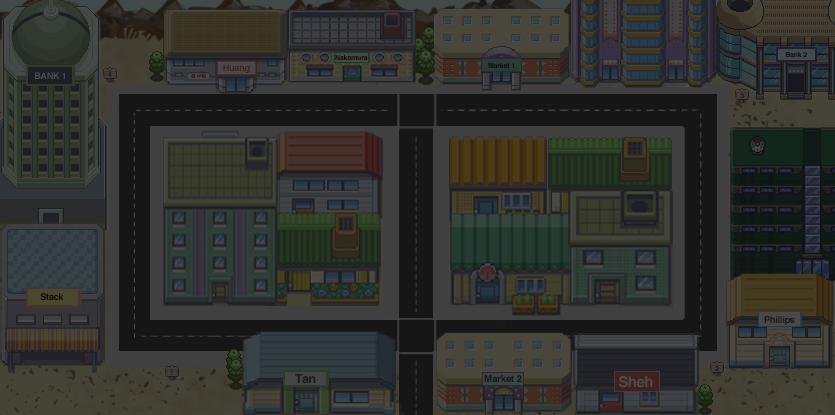
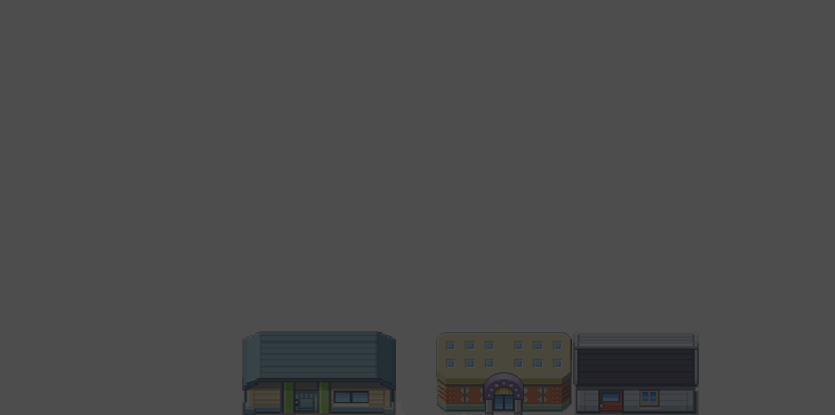
Updated night time gui and readme

diff --git a/src/gui/MacroAnimationPanel.java b/src/gui/MacroAnimationPanel.java
@@ -225,10 +225,10 @@ public class MacroAnimationPanel extends JPanel implements ActionListener, Mouse
 	        }
         }
         
-//        if(Clock.sharedInstance().isDay()) 
+        if(Clock.sharedInstance().isDay()) 
         	g2.drawImage(cityImage, 0, 0, null);
-//        else 
-//        	g2.drawImage(cityImageNight, 0, 0, null);
+        else 
+        	g2.drawImage(cityImageNight, 0, 0, null);
         
         synchronized(guis) {
 	        for(Gui gui : guis) {
@@ -249,10 +249,10 @@ public class MacroAnimationPanel extends JPanel implements ActionListener, Mouse
         //moveComponents();
         //drawComponents(g);
         
-//        if(Clock.sharedInstance().isDay()) 
+        if(Clock.sharedInstance().isDay()) 
         	g2.drawImage(cityImageTop, 0, 0, null);
-//        else 
-//        	g2.drawImage(cityImageNightTop, 0, 0, null);
+        else 
+        	g2.drawImage(cityImageNightTop, 0, 0, null);
     }
     
     public ArrayList<Building> getBuildings() {

diff --git a/README.md b/README.md
@@ -34,6 +34,12 @@ Missing functionality in V1
  * No walking as sole form of transportation.
  * No bank robberies.
  * No weekends.
+ 
+ Missing functionality in V2
+ * Buying/Driving Car Scenario
+ *
+ *
+ *
 
 Ryan Stack's Contribution:
  * Implemented restaurant with added shared data, market interactions, and payment from cashier
@@ -58,6 +64,10 @@ Reid Nakamura's Contribution:
  * Implement Market Role Unit Test
  * Helped to debug Transportation GUI
  * Resolved issue with Ryan Sheh to set up CardLayout of building animation panels
+ * Implemented personal restaurant w/ normal/shared waiter/cook interactions
+ * Updated Market Role Agent to Handle Deliveries
+ * Helped Ryan w/ Market/Restaurant interaction
+ * Implemented time (days/hours/weekends)
 
 Ryan Sheh's Contribution
  * Main Window GUI (w/ help from Ryan Stack)
@@ -68,6 +78,12 @@ Ryan Sheh's Contribution
  * Implemented Directory Class for References (w/ help from Alex)
  * Unit Testing Bank Roles (w/ Richard)
  * Helped Implement Bus Agent & GUI (w/ Ben Tan)
+ * Implemented personal restaurant w/ normal/shared waiter/cook interactions
+ * Traffic Agent Design Doc
+ * Apartment implementation/GUI
+ * LandLord GUI
+ * Updated Sim City MacroAnimation Panel to incorporate intersections/signs/nighttime.
+ * Helped Nakamura's restaurant GUI
  
  Ben Tan's Contribution
  * Design of Car Agent & interaction with Transportation Role
@@ -76,6 +92,10 @@ Ryan Sheh's Contribution
  * Helped update Directory & Bus Helpers classes and supporting files (w/ Ryan Sheh & Alex Huang)
  * Helped hook up Transportation Role with Bus Agent (w/ Alex Huang)
  * Missing functionality: Cars in the city
+ * Implemented restaurant
+ * Traffic Agent
+ * Car Agent
+ * Implemented vehicles through intersections w/ Alex
 
 
 Alex Huang's Contribution:
@@ -87,4 +107,5 @@ Alex Huang's Contribution:
  * Polish superNorm test with help from Reid and Sheh
  * Implemented Transportation Role and TransportationRoleGUI
  * Missing Complete Unit Tests for PersonAgent and PersonGUI because of sharedInstance issues in Directory. Pushing back this req for V2 delivery. 
-
+ * Implemented personal restaurant w/ normal/shared waiter/cook interactions
+ * Transportation Role (Walking) GUI w/ Ben
